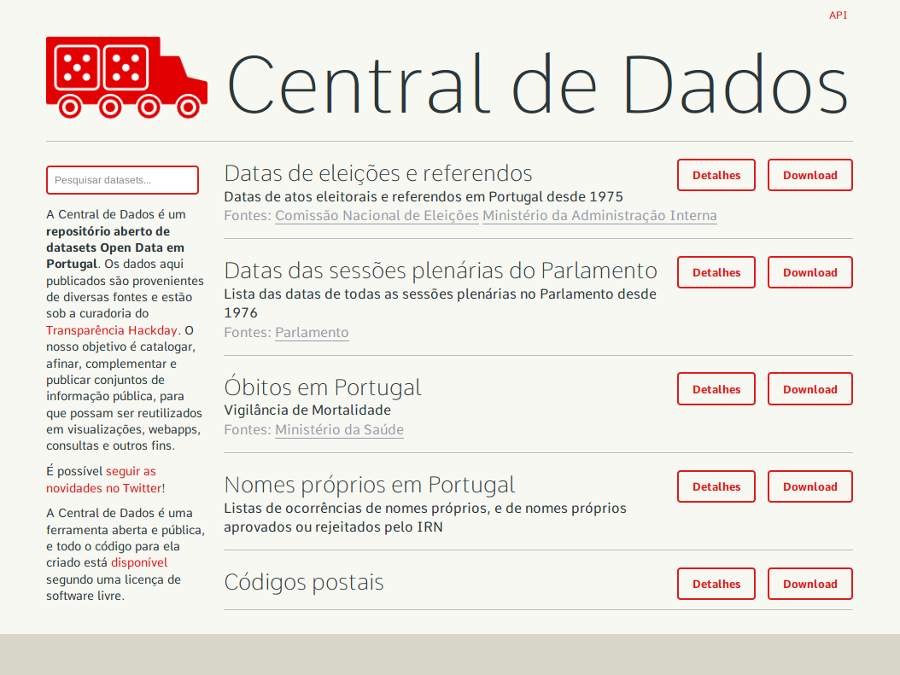
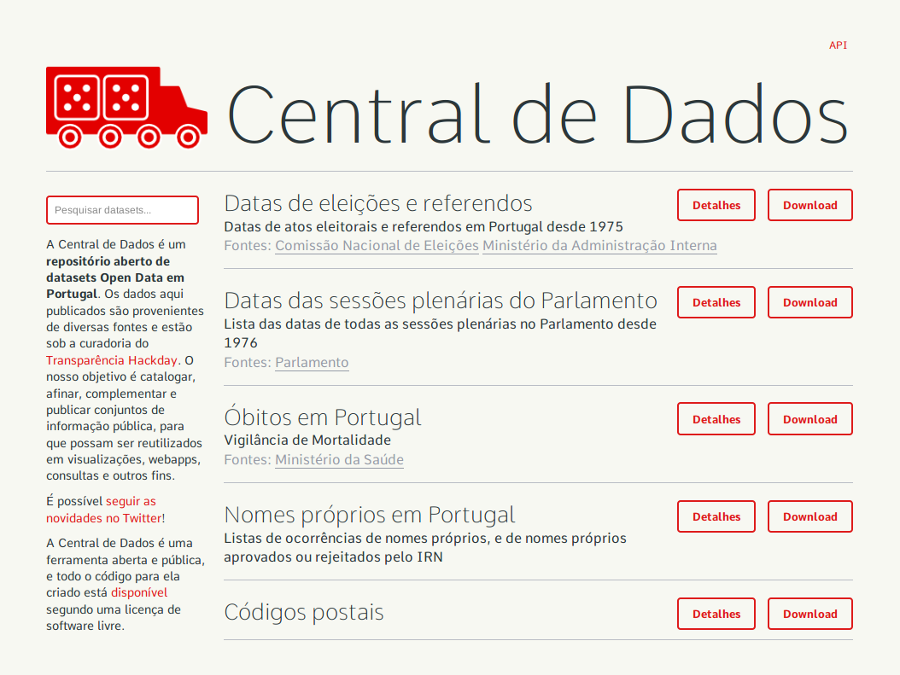
Mais imagens; tamanhos em px para os textos com fonte pixel; mais texto na parte dos projectos.

Changed region(s): [[0.0, 0.0311, 1.0, 1.0], [0.7467, 0.6844, 0.9644, 0.8089], [0.7467, 0.5289, 0.9644, 0.6533]]

diff --git a/assets/index.html b/assets/index.html
@@ -24,7 +24,7 @@
         <!-- Right Nav Section -->
         <ul class="right">
           <li data-magellan-arrival="projects"><a href="#projects">Projetos</a></li>
-          <li data-magellan-arrival="colaborate"><a href="#colaborate">O que é</a></li>
+          <li data-magellan-arrival="collaborate"><a href="#collaborate">O que é</a></li>
           <li data-magellan-arrival="about"><a href="#about">Sobre nós</a></li>
         </ul>
       </section>
@@ -56,7 +56,7 @@
   <div class="projects" id="projects" data-magellan-destination="projects">
     <div class="row">
       <div class="row text-center">
-        <h1>Projetos</h1>
+        <h2>Projetos</h2>
       </div>
       <div class="row">
         <div class="medium-4 columns text-center">
@@ -84,22 +84,25 @@
         </div>
         <div class="medium-4 columns text-center">
           <img src="images/mila_400x300.png"/>
-          <h4>Mila?</h4>
-          <p>????</p>
+          <h4>Mila</h4>
+          <p>Mapa de obstáculos para cidadãos com dificuldades motoras. <a href="https://mila.crowdmap.com">↗ Mais</a></p>
         </div>
         <div class="medium-4 columns text-center">
           <img src="images/geodevolutas_400x300.png"/>
-          <h4>Geodevolutas?</h4>
-          <p>????</p>
+          <h4>Geodevolutas</h4>
+          <p>Mapa das casas abandonadas em Portugal, com especial atenção à cidade do Porto. <a href="http://geodevolutas.org/">↗ Mais</a></p>
         </div>
+      </div>
+      <div class="row text-center">
+        <p>Outro projectos: <a href="http://pt.openfoodfacts.org">↗ Open Food Facts</a>;<a href="http://www.nunomoniz.com/orcamento"> ↗O teu orçamento de estado</a>... </p>
       </div>
     </div>
   </div>
 
-  <div class="colaborate" id="colaborate" data-magellan-destination="colaborate">
+  <div class="collaborate" id="collaborate" data-magellan-destination="collaborate">
     <div class="row">
       <div class="row text-center">
-        <h1>O que é o Date with Data</h1>
+        <h2>O que é o Date with Data</h2>
       </div>
       <div class="row">
         <div class="medium-4 columns text-center">

diff --git a/assets/styles/app.scss b/assets/styles/app.scss
@@ -1,6 +1,9 @@
 @import 'foundation/settings';
 @import 'foundation';
 
+/* Type
+*/
+
 @font-face {
     font-family: 'victors-pixel-font';
     src: url('/fonts/victor/victors.eot');
@@ -10,8 +13,24 @@
          url('/fonts/victor/victors.svg#victors-pixel-font') format('svg');
 }
 
-h1, h2, h3, h4 {
-    font-family: 'victors-pixel-font', DejaVu Sans, Arial, sans-serif;
+h1, h2, h3, h4, h5, h6 { font-family: 'victors-pixel-font', DejaVu Sans, Arial, sans-serif; }
+
+h1 { font-size: 64px; line-height: 66px; }
+h2 { font-size: 40px; line-height: 42px; }
+h3 { font-size: 32px; line-height: 34px; }
+h4 { font-size: 24px; line-height: 26px; }
+h5 { font-size: 16px; line-height: 18px; }
+h6 { font-size: 12px; line-height: 14px; }
+
+.top-bar .name h1, .top-bar .name h2,
+.top-bar .name h3, .top-bar .name h4, { font-size: 16px; }
+
+/* Layout
+*/
+
+.hero, .projects, .collaborate, .about, .supportedBy, .copyright {
+  padding-top: 40px;
+  padding-bottom: 15px;
 }
 
 .hero{
@@ -20,22 +39,20 @@ h1, h2, h3, h4 {
 
 .projects {
   background: #fbfbfb url('/images/transition-01.png') repeat-x 0 0;
-  padding-top: 40px;
 }
 
-.colaborate{
+.collaborate {
   background: #18ebc6 url('/images/transition-02.png') repeat-x 0 0;
-  padding-top: 40px;
 }
 
-.about{
+.about {
   background-color: #FF851B;
 }
 
-.supportedBy{
+.supportedBy {
   background-color: #85144b;
 }
 
-.copyright{
+.copyright {
     background-color: #FFDC00;
 }
